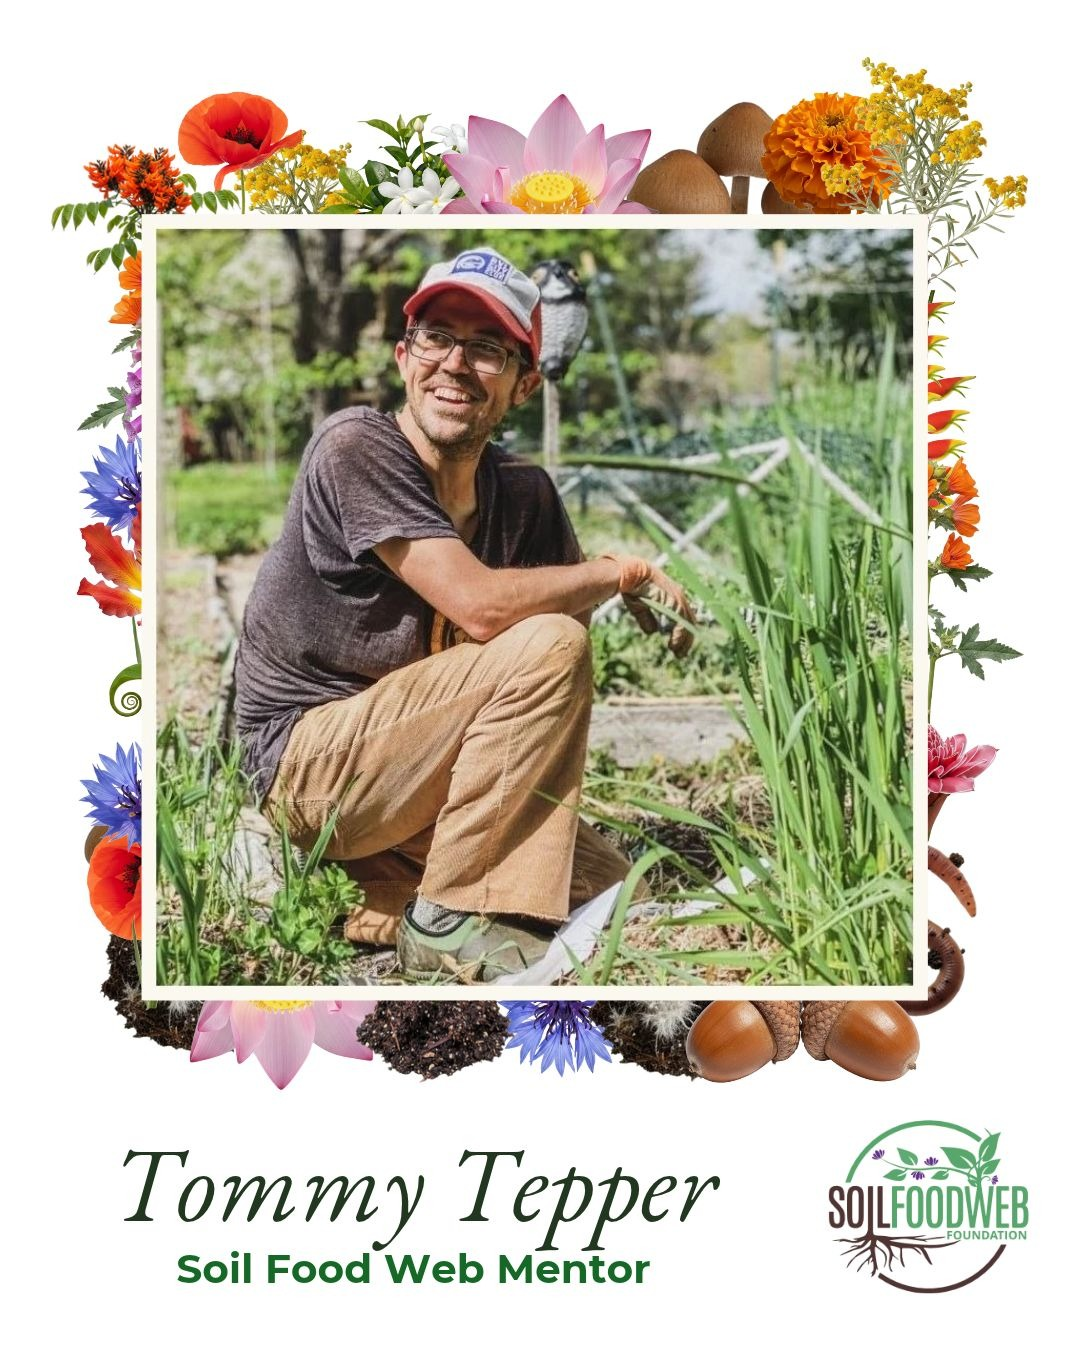
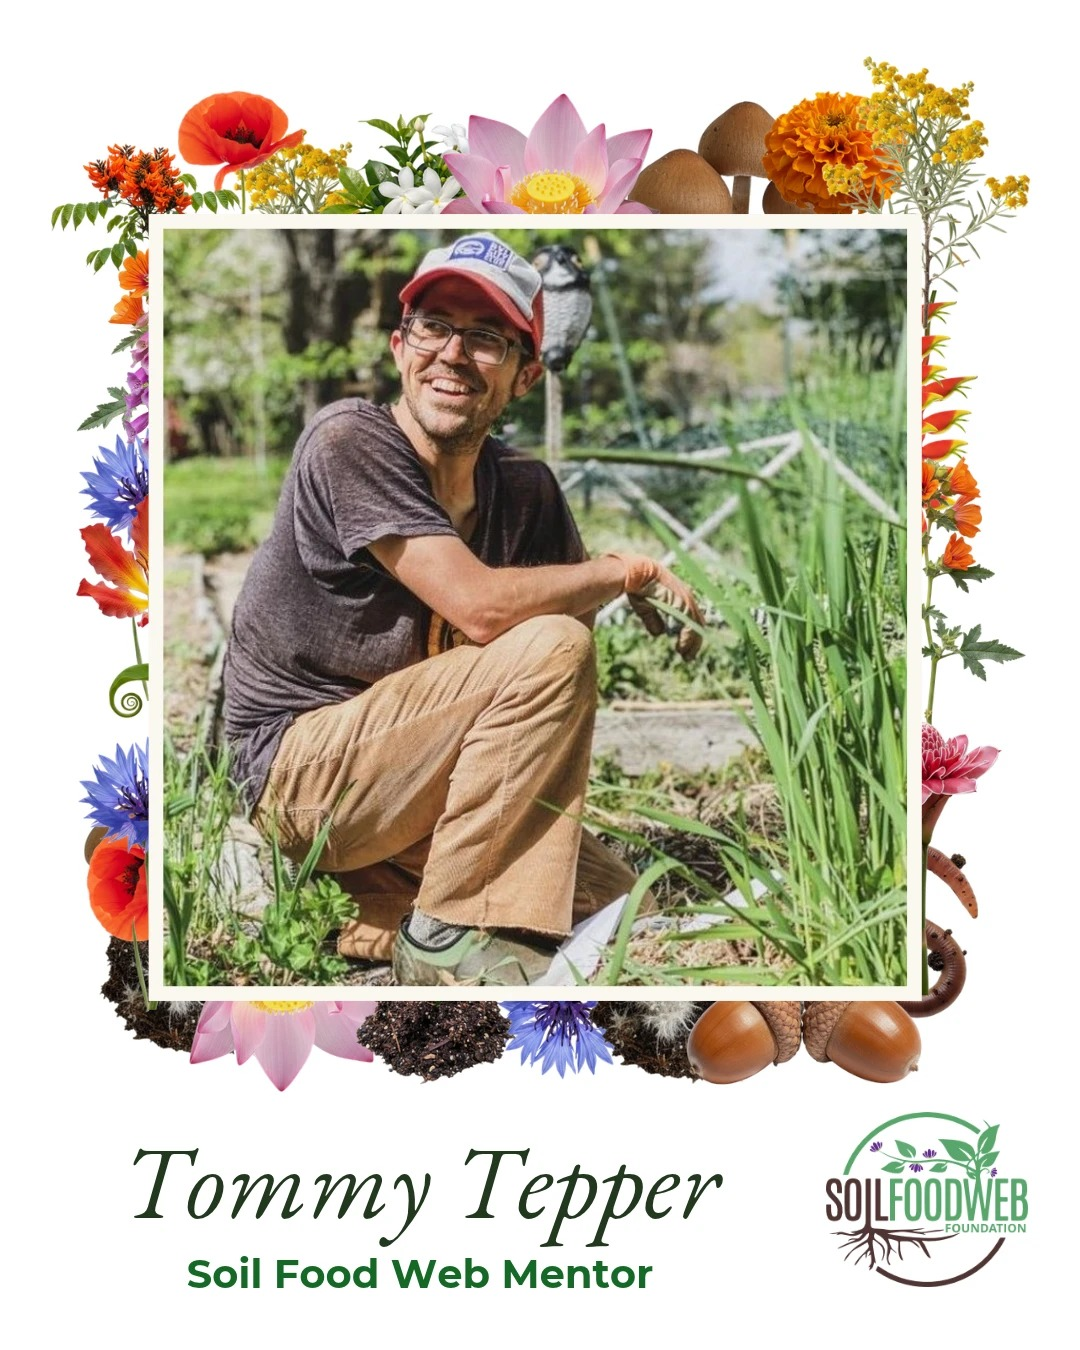
Wormhole: Allison's final early nematode carousel and Linnea's final mentor images
cr20261103 (2 Nov) gets Allison's five Canva slides. Gerald, Nick, Dora,
Carla, Wes, Brian, Casey and Delvin get Linnea's final Canva images with
the better photos (Tommy already had his).

Claude-Session: https://claude.ai/code/session_01QZnNNxz3UXnFefobAaUWFn

diff --git a/apps/web/lib/wormhole-changes.ts b/apps/web/lib/wormhole-changes.ts
@@ -8265,6 +8265,173 @@ export const CHANGES: Change[] = [
     reason:
       "Linnea, 30 Oct: the final 'Join us tomorrow' design from Canva (webinar-reminder-matt-drane, Week 1 Nov 2-8).",
   },
+  {
+    key: '2026-10-30 cr20261103 allison final',
+    post: 'cr20261103',
+    set: {
+      slides: [
+        {
+          text: 'Early nematode pricing ends November 4. Accelerator Workshop, Costa Rica.',
+          image: '/wormhole/tiles/cr20261103-allison-1.jpg',
+        },
+        {
+          text: 'Ten days of intensive, hands-on training. 18 to 29 January 2027, Armonía, Heredia.',
+          image: '/wormhole/tiles/cr20261103-allison-2.jpg',
+        },
+        {
+          text: 'Build BioComplete™ compost with your team. Choose feedstocks, write your recipes, manage several batches side by side.',
+          image: '/wormhole/tiles/cr20261103-allison-3.jpg',
+        },
+        {
+          text: 'Brew compost extracts and teas. Protozoan infusions and nematode extractions.',
+          image: '/wormhole/tiles/cr20261103-allison-4.jpg',
+        },
+        {
+          text: 'Read the biology, with a mentor beside you.',
+          image: '/wormhole/tiles/cr20261103-allison-5.jpg',
+        },
+      ],
+    },
+    reason:
+      "Linnea, 30 Oct: Allison's final early nematode carousel from Canva (Allison-final-CR-early-nematode, Week 1 Nov 2-8).",
+  },
+  {
+    key: '2026-10-30 p06 linnea final',
+    post: 'p06',
+    set: {
+      slides: [
+        { text: 'Gerald Ramirez, Soil Food Web Mentor', image: '/wormhole/tiles/p06-linnea-1.jpg' },
+        {
+          text: 'Gerald teaches students to make compost extracts and teas. Costa Rica, March 2025',
+          image: '/wormhole/tiles/p06-2.jpg',
+        },
+        {
+          text: 'They carry living biology from the compost out onto the fields. Thank you, Gerald!',
+          image: '/wormhole/tiles/p06-3.jpg',
+        },
+      ],
+    },
+    reason:
+      'Linnea, 30 Oct: her final Canva image for Gerald Ramirez (better photo), replacing the rebuilt version.',
+  },
+  {
+    key: '2026-10-30 p03 linnea final',
+    post: 'p03',
+    set: {
+      slides: [
+        { text: 'Nick Padwick, Soil Food Web Mentor', image: '/wormhole/tiles/p03-linnea-1.jpg' },
+        {
+          text: 'More than 40 years farming at scale, in the UK, Italy, Spain and Argentina.',
+          image: '/wormhole/tiles/p03-2.jpg',
+        },
+        {
+          text: 'Today he makes around 750 tons of compost a year. Thank you, Nick, for showing our students what this looks like at scale.',
+          image: '/wormhole/tiles/p03-3.jpg',
+        },
+      ],
+    },
+    reason:
+      'Linnea, 30 Oct: her final Canva image for Nick Padwick (better photo), replacing the rebuilt version.',
+  },
+  {
+    key: '2026-10-30 p09 linnea final',
+    post: 'p09',
+    set: {
+      slides: [
+        { text: 'Dora Tkalec, Soil Food Web Mentor', image: '/wormhole/tiles/p09-linnea-1.jpg' },
+        {
+          text: 'Her favourite microbe: the naked amoeba. “A slimy splotch that changes shape, and every species keeps its own.”',
+          image: '/wormhole/tiles/p09-2.jpg',
+        },
+        {
+          text: '“I have seen plants treated with BioComplete™ compost extract being more resistant to bacterial disease.” Thank you, Dora!',
+          image: '/wormhole/tiles/p09-3.jpg',
+        },
+      ],
+    },
+    reason:
+      'Linnea, 30 Oct: her final Canva image for Dora Tkalec (better photo), replacing the rebuilt version.',
+  },
+  {
+    key: '2026-10-30 d05 linnea final',
+    post: 'd05',
+    set: {
+      slides: [
+        {
+          text: 'Dr. Carla Portugal, Soil Food Web Mentor',
+          image: '/wormhole/tiles/d05-linnea-1.jpg',
+        },
+      ],
+    },
+    reason:
+      'Linnea, 30 Oct: her final Canva image for Dr. Carla Portugal (better photo), replacing the rebuilt version.',
+  },
+  {
+    key: '2026-10-30 p04 linnea final',
+    post: 'p04',
+    set: {
+      slides: [
+        { text: 'Wes Sander, Soil Food Web Mentor', image: '/wormhole/tiles/p04-linnea-1.jpg' },
+        {
+          text: "His favourite organism: the Arcella amoeba. “There's just something about that large test that you can almost see inside of, with the amoeba squished up against the wall. So cool.” Arcella at 40x, photographed by student Mark Horton.",
+          image: '/wormhole/tiles/p04-2.jpg',
+        },
+        {
+          text: "“It depends,” as Dr. Elaine loved to say. Wes's advice: success hinges on reading the signs. Thank you, Wes!",
+          image: '/wormhole/tiles/p04-3.jpg',
+        },
+      ],
+    },
+    reason:
+      'Linnea, 30 Oct: her final Canva image for Wes Sander (better photo), replacing the rebuilt version.',
+  },
+  {
+    key: '2026-10-30 d11 linnea final',
+    post: 'd11',
+    set: {
+      slides: [
+        {
+          text: 'Brian Daubenspeck, Soil Food Web Mentor',
+          image: '/wormhole/tiles/d11-linnea-1.jpg',
+        },
+      ],
+    },
+    reason:
+      'Linnea, 30 Oct: her final Canva image for Brian Daubenspeck (better photo), replacing the rebuilt version.',
+  },
+  {
+    key: '2026-10-30 p02 linnea final',
+    post: 'p02',
+    set: {
+      slides: [
+        { text: 'Casey Williams, Soil Food Web Mentor', image: '/wormhole/tiles/p02-linnea-1.jpg' },
+        {
+          text: '“I am deeply grateful that I get to learn from my students as well as teach them.” A bacterial-feeding nematode at 40x, photographed by Casey.',
+          image: '/wormhole/tiles/p02-2.jpg',
+        },
+        {
+          text: 'His advice: put your hands in the soil. We learn best by doing. Thank you, Casey!',
+          image: '/wormhole/tiles/p02-3.jpg',
+        },
+      ],
+    },
+    reason:
+      'Linnea, 30 Oct: her final Canva image for Casey Williams (better photo), replacing the rebuilt version.',
+  },
+  {
+    key: '2026-10-30 d12 linnea final',
+    post: 'd12',
+    set: {
+      slides: [
+        {
+          text: 'Delvin Solkinson, Soil Food Web Mentor',
+          image: '/wormhole/tiles/d12-linnea-1.jpg',
+        },
+      ],
+    },
+    reason:
+      'Linnea, 30 Oct: her final Canva image for Delvin Solkinson (better photo), replacing the rebuilt version.',
+  },
 ];
 
 CHANGES.push(...GAP_CHANGES, ...JAN_CHANGES, ...OCT27_CHANGES);
